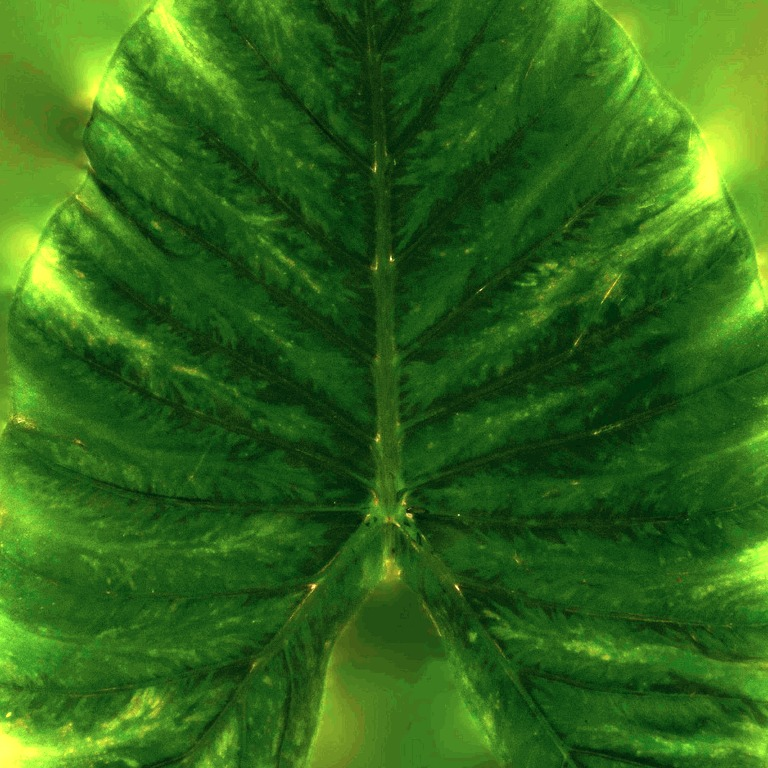
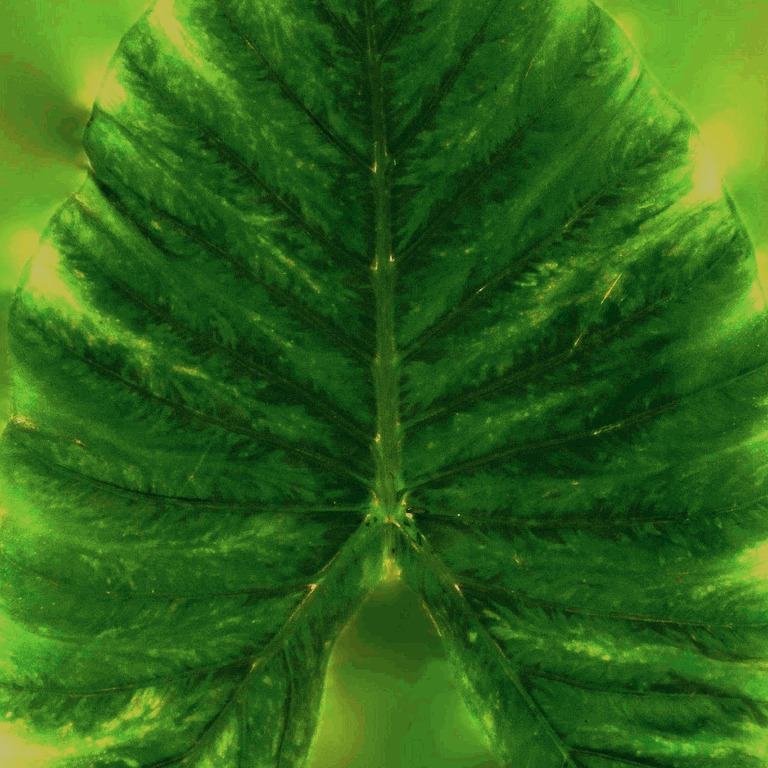
FG: tuning

diff --git a/src/archpipe/landscape/foliage/generate.py b/src/archpipe/landscape/foliage/generate.py
@@ -271,11 +271,11 @@ def build_climber(spec, rng, H, S, reach, state, lod_keep):
     for b in g.out:
         pts = b["pts"]; n = len(pts)
         d_all = np.gradient(pts, axis=0)
-        step = max(1, int(round(spec["node"] / 0.06)))
+        step = max(1, int(round(spec["node"] * 1.5 / 0.06)))
         for i in range(2, n, step):
             bd = unit(d_all[i])
             for j in range(2 if spec["arr"] == "opposite" else 1):
-                if rng.random() > lod_keep:
+                if rng.random() > lod_keep * 0.8:
                     continue
                 side = (-1 if j else 1) * (1 if spec["arr"] == "opposite" else rng.choice([-1, 1]))
                 d = unit(np.array([side * rng.uniform(0.2, 0.9), rng.uniform(0.5, 1.0), -rng.uniform(0.0, 0.7)]) + rng.normal(0, 0.1, 3))
@@ -381,7 +381,7 @@ def build_strap(spec, rng, H, S, reach, state, lod_keep):
         out = np.array([math.cos(a), math.sin(a), 0])
         d = np.array([out[0] * math.cos(el), out[1] * math.cos(el), math.sin(el)])
         # length chosen so the arched tip lands near the sourced height and spread
-        L = H * rng.uniform(0.85, 1.35) * 1.15
+        L = H * rng.uniform(0.9, 1.2) * 1.15
         ls.add(out * 0.01, d, unit(np.cross(np.cross(d, UP), d) + UP * 0.1), scale=L / spec["leaf_len"], arch=spec["arch"] * rng.uniform(0.7, 1.2))
     return g, ls
 

diff --git a/src/archpipe/landscape/foliage/species.py b/src/archpipe/landscape/foliage/species.py
@@ -24,7 +24,7 @@ SPECS = {
         wscale=1.0, arr="opposite", arch=0.35, colour=(58, 100, 38), stems=4, leaf_zone=1.0, node=0.04, branch_p=0.55,
         jitter=0.12, thickness=0.22, leaf_len_source="policy"),
     "petrea_volubilis": dict(form="climber", accepted="Petrea volubilis", banks={"star_jasmine": 0.55, "ginger_lily": 0.45},
-        leaf_len=0.15, len_sd=0.18, wscale=0.8, arr="opposite", arch=0.3, colour=(48, 84, 34), stems=4, leaf_zone=1.0,
+        leaf_len=0.15, len_sd=0.18, wscale=0.8, arr="opposite", arch=0.3, colour=(62, 100, 40), stems=4, leaf_zone=1.0,
         node=0.07, branch_p=0.45, jitter=0.12, thickness=0.30, leaf_len_source="sourced: plants.json foliage 'oblong-elliptic leaves 4-9 in' (NCSU)"),
     "vitis_vinifera": dict(form="climber", accepted="Vitis vinifera", banks={"palmate_grape": 1.0}, leaf_len=0.13, len_sd=0.2,
         wscale=1.0, arr="alternate", arch=0.4, colour=(88, 128, 46), stems=3, leaf_zone=1.0, node=0.09, branch_p=0.5,

diff --git a/src/archpipe/landscape/foliage/banks.py b/src/archpipe/landscape/foliage/banks.py
@@ -133,7 +133,7 @@ def synth_palmate(name, sci, lobes, sinus, span_deg, serration, source="taro", n
     ca = np.asarray(crop).astype(float)
     k = 85.0 / max(1.0, float((ca @ [0.2126, 0.7152, 0.0722]).mean()))
     ca[..., 2] = np.maximum(ca[..., 2], ca[..., 1] * 0.25)          # keep some blue so the hue correction has something to scale
-    crop = Image.fromarray(np.clip(ca * k, 0, 255).astype(np.uint8))
+    crop = Image.fromarray(np.clip(ca * k, 0, 190).astype(np.uint8))   # clip: no white flecks
     yy, xx = np.mgrid[0:n, 0:n]
     # polar coords about the leaf centre; angle 0 = up; the blade occupies span_deg either side of up
     px, py = (xx - n / 2) / (n / 2), (n * 0.54 - yy) / (n / 2)
